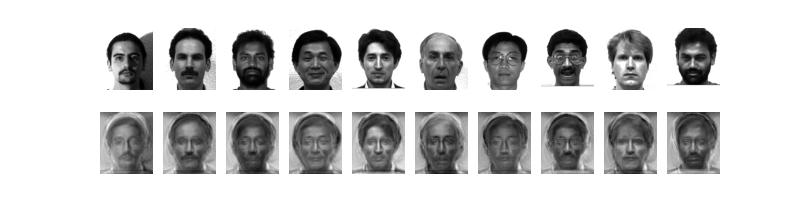
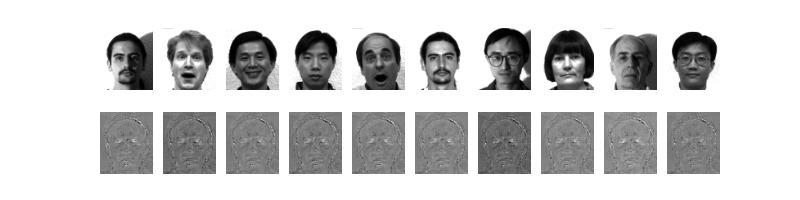
LDA algorithm with bugs

Changed region(s): [[0.125, 0.54, 0.9062, 0.87], [0.1875, 0.12, 0.9062, 0.45], [0.375, 0.15, 0.4062, 0.18]]

diff --git a/hw7/ML_hw7_PCA_LDA.py b/hw7/ML_hw7_PCA_LDA.py
@@ -31,6 +31,21 @@ def load_imgs(path):
 
     return np.array(image), np.array(filename), np.array(label)
 
+def resize_img(data):
+    num_imgs = data.shape[0]
+    img_compress = np.zeros((num_imgs, 77 * 65))
+
+    for img in range(num_imgs):
+        for row in range(77):
+            for col in range(65):
+                tmp = 0
+                for i in range(3):
+                    for j in range(3):
+                        tmp += train_img[img][(row*3 + i) * 195 + (col*3 + j)]
+                img_compress[img][row * 65 + col] = tmp // 9
+
+    return img_compress
+
 # def standardize(data):
 #     mean = np.mean(data, axis = 0)
 #     std = np.std(data, axis = 0)
@@ -80,10 +95,10 @@ def LDA(data, label):
 
     return W
 
-def print_eigen_fisher_face(W, face):
+def print_eigen_fisher_face(W, face, scale):
     fig = plt.figure(figsize=(5, 5))
     for i in range(25):
-        img = W[:, i].reshape(231, 195)
+        img = W[:, i].reshape(231 // scale, 195 // scale)
         ax = fig.add_subplot(5, 5, i+1)
         ax.axis('off')
         ax.imshow(img, cmap='gray')
@@ -92,18 +107,18 @@ def print_eigen_fisher_face(W, face):
         
     return
 
-def reconstruct_face(W, data):
+def reconstruct_face(W, data, scale):
     id = np.random.choice(135, 10, replace=False)
     fig = plt.figure(figsize=(8, 2))
     for i in range(10):
-        img = data[id[i]].reshape(231, 195)
+        img = data[id[i]].reshape(231 // scale, 195 // scale)
         ax = fig.add_subplot(2, 10, i + 1)
         ax.axis('off')
         ax.imshow(img, cmap='gray')
 
         x = img.reshape(1, -1)
         reconstruct_img = x @ W @ W.T
-        reconstruct_img = reconstruct_img.reshape(231, 195)
+        reconstruct_img = reconstruct_img.reshape(231 // scale, 195 // scale)
         ax = fig.add_subplot(2, 10, i + 11)
         ax.axis('off')
         ax.imshow(reconstruct_img, cmap='gray')
@@ -140,8 +155,13 @@ test_img, test_filename, test_label = load_imgs(TESTING_PATH)
 
 if mode == 1:
     W = PCA(train_img)
-    print_eigen_fisher_face(W, 'eigenface')
-    reconstruct_face(W, train_img)
+    print_eigen_fisher_face(W, 'eigenface', 1)
+    reconstruct_face(W, train_img, 1)
     predict(train_img, train_label, test_img, test_label, W)
 elif mode == 2:
-    W = LDA(train_img, train_label)
+    train_img_compress = resize_img(train_img) #77 * 65
+    test_img_compress = resize_img(test_img)
+    W = LDA(train_img_compress, train_label)
+    print_eigen_fisher_face(W, 'fisherface', 3)
+    reconstruct_face(W, train_img_compress, 3)
+    predict(train_img_compress, train_label, test_img_compress, test_label, W)
